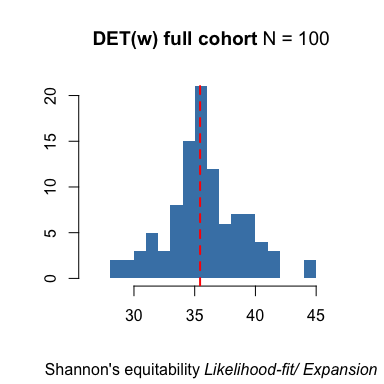
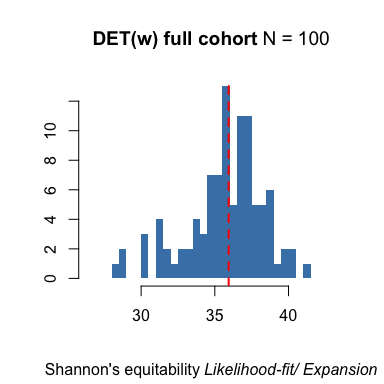
Update plot vignettes

diff --git a/vignette_plotting_functions/vignette_plotting_functions.md b/vignette_plotting_functions/vignette_plotting_functions.md
@@ -133,20 +133,22 @@ There are three types of plotting functions in REVOLVER:
 
 ## PDF reports
 
-> To assemble PDFs, REVOLVER relies on
-> [PDFjam](https://warwick.ac.uk/fac/sci/statistics/staff/academic-research/firth/software/pdfjam/)
-> and other scripts like `pdfScale.sh`. Scripts are included in
-> REVOLVER’s package, but PDFjam no; please, check that you have it
-> installed in your system (PDFjam is available for all Unix-like
-> systems, and should be compatible with Windows via Cygwin).
+> To assemble PDFs, REVOLVER uses
+> [PDFjam](https://warwick.ac.uk/fac/sci/statistics/staff/academic-research/firth/software/pdfjam/),
+> which is available for all Unix-like systems, and is compatible with
+> Windows via Cygwin; check that you have it installed in your system.
 
-Print to file
-![“REVOLVER-report-patient-data-models-PD9770.pdf”](./REVOLVER-report-patient-data-models-PD9770.pdf)
-a PDF report with data, trees and their rank for patient `PD9770`
+  - Print to file a PDF report with data, trees and their rank for
+    patient `PD9770`
+
+<!-- end list -->
 
 ``` r
 revolver_report_patient(Breast.fit, 'PD9770', cex = 1.5)
 ```
+
+Example output:
+[“REVOLVER-report-patient-data-models-PD9770.pdf”](https://github.com/caravagn/revolver.misc/blob/master/vignette_plotting_functions/REVOLVER-report-patient-data-models-PD9770.pdf).
 
 Print to file
 ![“REVOLVER-report-fit-patient-PD9770.pdf”](./REVOLVER-report-fit-patient-PD9770.pdf)
@@ -387,21 +389,21 @@ revolver_plt_DET_index(Breast.fit, N = 100)
 
 ![](vignette_plotting_functions_files/figure-gfm/unnamed-chunk-15-1.png)<!-- -->
 
-    ##   [1] 36.20458 34.00851 34.44877 33.46172 38.59152 39.20442 37.76143
-    ##   [8] 31.21931 34.19181 35.06642 44.21299 37.52336 34.11008 34.24853
-    ##  [15] 35.63189 36.53577 34.11090 40.13706 39.40993 36.22716 33.72107
-    ##  [22] 35.97534 35.35200 36.22639 34.36750 44.45805 40.63487 35.37661
-    ##  [29] 36.35336 31.48637 30.93752 35.57629 36.55432 35.78285 34.32112
-    ##  [36] 33.32493 35.80723 39.64230 35.33155 34.66194 37.91012 39.24672
-    ##  [43] 35.37816 28.25924 40.51107 37.03851 35.92490 38.74601 33.56742
-    ##  [50] 31.30861 30.36060 28.45511 32.44907 38.07375 31.97743 39.14592
-    ##  [57] 35.30522 38.67617 38.53473 38.33173 36.32987 34.49202 34.89513
-    ##  [64] 35.16044 35.19624 40.46480 33.11586 33.46446 37.58055 34.12359
-    ##  [71] 36.14453 37.26645 31.61676 35.14612 35.50778 41.72700 41.48097
-    ##  [78] 30.51276 39.60777 36.57293 41.48504 38.65372 33.34499 32.14776
-    ##  [85] 34.36330 33.49903 29.86728 35.21616 29.54503 35.54498 32.77412
-    ##  [92] 39.49679 34.37922 36.21059 35.58294 36.59313 36.82172 35.37023
-    ##  [99] 34.74515 35.05567
+    ##   [1] 36.58310 33.94250 30.10426 34.56350 37.10766 38.17583 36.28816
+    ##   [8] 35.06624 34.06850 32.16168 35.69785 36.75939 34.74318 38.71252
+    ##  [15] 36.56308 36.84374 35.88490 36.27426 34.37698 37.28695 37.53044
+    ##  [22] 37.42462 38.04100 35.27596 33.60850 35.74741 35.72149 36.28510
+    ##  [29] 41.07925 39.11374 37.51561 33.24746 37.39879 33.30640 37.37908
+    ##  [36] 31.30006 37.49331 34.82463 35.12689 36.69929 31.56922 39.68761
+    ##  [43] 34.53637 39.60182 33.72110 36.77199 35.78958 30.32023 35.92934
+    ##  [50] 36.46091 28.80465 37.93906 38.70931 36.68910 32.71071 35.49088
+    ##  [57] 38.16556 35.95108 40.42975 32.93079 35.71519 38.20119 31.14034
+    ##  [64] 38.60086 36.96020 35.19287 28.43058 36.61744 35.76702 35.84270
+    ##  [71] 30.08855 35.49883 35.89843 38.64846 37.17336 34.58858 38.32433
+    ##  [78] 35.63135 37.32966 37.01169 37.60855 37.25636 36.93804 31.28884
+    ##  [85] 31.74194 34.93898 36.63121 31.05876 34.80086 36.46907 38.64670
+    ##  [92] 34.43522 37.08601 38.50238 37.82725 33.74016 35.70950 40.14945
+    ##  [99] 28.51001 35.27897
 
 For each driver, it is reported as estimated empirically from data
 
